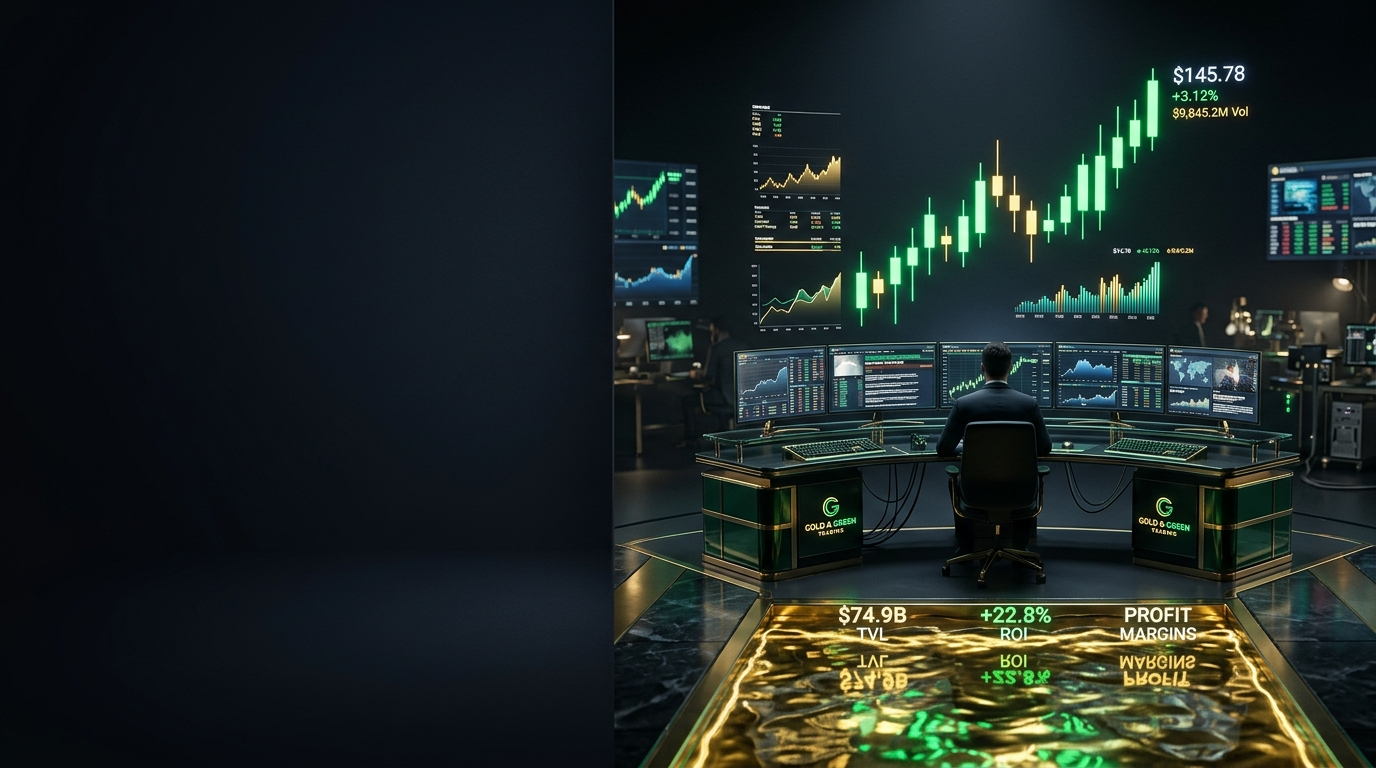
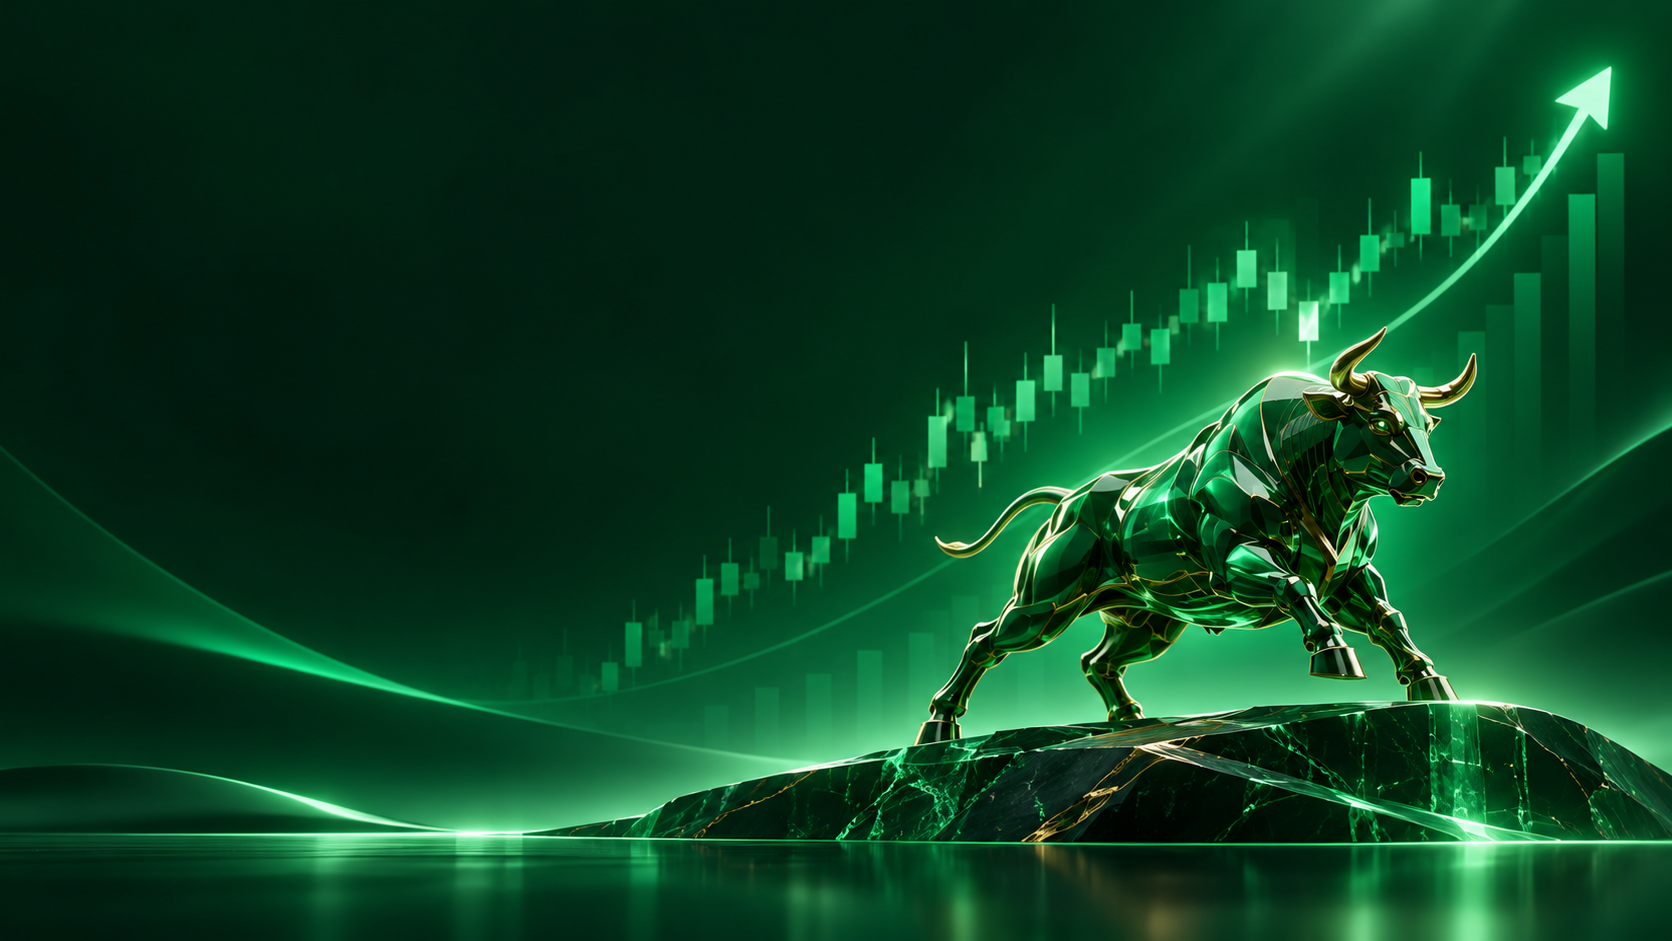
Remove hero blur effect and minimize text to essential, high-impact copy

diff --git a/login/templates/login/home.html b/login/templates/login/home.html
@@ -4,7 +4,7 @@
 {% block title %}Kalphora Equity — SEBI Registered Research Analyst | Stock Research & Recommendations{% endblock %}
 
 {% block extra_css %}
-<link rel="stylesheet" href="{% static 'login/css/home.css' %}?v=4.0">
+<link rel="stylesheet" href="{% static 'login/css/home.css' %}?v=4.1">
 <link rel="stylesheet" href="{% static 'login/css/consultation.css' %}?v=1.3">
 {% endblock %}
 
@@ -18,25 +18,22 @@
     <!-- Left Aligned Hero Structure (Matching Attached Image) -->
     <div class="hero-left-section">
       <div class="hero-pill-badge">
-        <span>✨ Kalphora Equity — SEBI Registered Research Analyst</span>
+        <span>✨ SEBI Registered Research Analyst</span>
       </div>
 
       <h1 class="hero-image-styled-title">
-        Institutional-Grade<br>
-        Equity Research &<br>
-        <span class="highlight-text">Stock Recommendations</span>
+        Institutional<br>
+        <span class="highlight-text">Equity Research</span>
       </h1>
 
       <p class="hero-image-styled-subtitle">
-        Data-driven Swing, Breakout, and Long-Term stock recommendations backed by deep forensic balance sheet research.
+        High-conviction stock research backed by forensic fundamentals.
       </p>
 
       <form class="hero-pill-bar" action="#contact-section" method="get">
         <div class="pill-left-content">
-          <span class="pill-icon">💼</span>
-          <span class="pill-store-name">Kalphora Equity</span>
-          <span class="pill-divider">|</span>
-          <input type="text" name="message" class="pill-input" placeholder="Search stock ticker (e.g. RELIANCE, TATAELXSI)..."
+          <span class="pill-icon">🔍</span>
+          <input type="text" name="message" class="pill-input" placeholder="Search stock ticker (e.g. RELIANCE)..."
             required>
         </div>
         <button type="submit" class="pill-submit-btn" aria-label="Submit query">
@@ -53,19 +50,19 @@
     <div class="metrics-ticker-wrapper">
       <div class="metric-item">
         <div class="metric-value">CFA & NISM</div>
-        <div class="metric-label">Certified Lead Analyst</div>
+        <div class="metric-label">Certified</div>
       </div>
       <div class="metric-item">
         <div class="metric-value">99.4%</div>
-        <div class="metric-label">Client Retention</div>
+        <div class="metric-label">Retention</div>
       </div>
       <div class="metric-item">
-        <div class="metric-value">2-3 Calls/Wk</div>
-        <div class="metric-label">Curated Research Picks</div>
+        <div class="metric-value">2-3 / Wk</div>
+        <div class="metric-label">Curated Picks</div>
       </div>
       <div class="metric-item">
-        <div class="metric-value">SEBI Reg. 25</div>
-        <div class="metric-label">Immutable Audit Trail</div>
+        <div class="metric-value">Reg. 25</div>
+        <div class="metric-label">SEBI Compliant</div>
       </div>
     </div>
 

diff --git a/login/static/login/css/home.css b/login/static/login/css/home.css
@@ -128,12 +128,12 @@
   opacity: 1 !important;
 }
 
-/* Scrim ensuring left-side text has crisp readability while video covers fully from left to right */
+/* Scrim ensuring left-side text has crisp readability while image covers fully without foggy blur */
 .hero-banner::after {
   content: '';
   position: absolute;
   inset: 0;
-  background: linear-gradient(90deg, rgba(10, 13, 20, 0.92) 0%, rgba(10, 13, 20, 0.72) 48%, rgba(10, 13, 20, 0.38) 100%);
+  background: linear-gradient(90deg, rgba(10, 13, 20, 0.65) 0%, rgba(10, 13, 20, 0.2) 40%, transparent 65%);
   z-index: 2;
   pointer-events: none;
 }
@@ -168,7 +168,7 @@
   align-items: center;
   gap: 0.6rem;
   padding: 0.45rem 1.25rem;
-  background: rgba(255, 255, 255, 0.1);
+  background: rgba(10, 13, 20, 0.85);
   border: 1px solid rgba(255, 255, 255, 0.25);
   border-radius: var(--radius-pill);
   color: #F8FAFC;
@@ -176,7 +176,8 @@
   font-weight: 700;
   letter-spacing: 0.5px;
   margin-bottom: 1.5rem;
-  backdrop-filter: blur(8px);
+  backdrop-filter: none !important;
+  -webkit-backdrop-filter: none !important;
 }
 
 .hero-image-styled-title {
@@ -244,10 +245,11 @@
 }
 
 .btn-hero-secondary {
-  background: rgba(255, 255, 255, 0.1) !important;
+  background: rgba(10, 13, 20, 0.75) !important;
   color: #FFFFFF !important;
   border: 1px solid rgba(255, 255, 255, 0.3) !important;
-  backdrop-filter: blur(8px) !important;
+  backdrop-filter: none !important;
+  -webkit-backdrop-filter: none !important;
   font-weight: 600 !important;
   padding: 0.95rem 2.25rem !important;
   border-radius: 9999px !important;
@@ -350,9 +352,10 @@
   max-width: 920px;
   margin: 0;
   padding: 0.85rem 1.75rem;
-  background: rgba(10, 13, 20, 0.7);
-  border: 1px solid rgba(255, 255, 255, 0.15);
-  backdrop-filter: blur(20px);
+  background: rgba(10, 13, 20, 0.82);
+  border: 1px solid rgba(255, 255, 255, 0.18);
+  backdrop-filter: none !important;
+  -webkit-backdrop-filter: none !important;
   border-radius: var(--radius-pill);
   box-shadow: 0 10px 30px rgba(0, 0, 0, 0.3);
   transition: var(--transition-smooth);

diff --git a/login/static/login/css/about.css b/login/static/login/css/about.css
@@ -110,7 +110,8 @@
   align-items: center;
   justify-content: space-between;
   background: rgba(255, 255, 255, 0.96);
-  backdrop-filter: blur(16px);
+  backdrop-filter: none !important;
+  -webkit-backdrop-filter: none !important;
   border-radius: 9999px;
   padding: 0.45rem 0.45rem 0.45rem 1.25rem;
   max-width: 540px;
@@ -206,9 +207,10 @@
   max-width: 920px;
   margin: 0;
   padding: 0.75rem 1.5rem;
-  background: rgba(255, 255, 255, 0.92);
+  background: rgba(255, 255, 255, 0.95);
   border: 1px solid rgba(212, 175, 55, 0.35);
-  backdrop-filter: blur(24px);
+  backdrop-filter: none !important;
+  -webkit-backdrop-filter: none !important;
   border-radius: var(--radius-pill);
   box-shadow: 0 10px 30px rgba(0, 0, 0, 0.08), inset 0 0 12px rgba(212, 175, 55, 0.08);
   transition: var(--transition-smooth);

diff --git a/login/static/login/css/services.css b/login/static/login/css/services.css
@@ -202,7 +202,8 @@
   align-items: center;
   justify-content: space-between;
   background: rgba(255, 255, 255, 0.96);
-  backdrop-filter: blur(16px);
+  backdrop-filter: none !important;
+  -webkit-backdrop-filter: none !important;
   border-radius: 9999px;
   padding: 0.45rem 0.45rem 0.45rem 1.25rem;
   max-width: 540px;
@@ -298,9 +299,10 @@
   max-width: 920px;
   margin: 0;
   padding: 0.75rem 1.5rem;
-  background: rgba(255, 255, 255, 0.92);
+  background: rgba(255, 255, 255, 0.95);
   border: 1px solid rgba(212, 175, 55, 0.35);
-  backdrop-filter: blur(24px);
+  backdrop-filter: none !important;
+  -webkit-backdrop-filter: none !important;
   border-radius: var(--radius-pill);
   box-shadow: 0 10px 30px rgba(0, 0, 0, 0.08), inset 0 0 12px rgba(212, 175, 55, 0.08);
   transition: var(--transition-smooth);
